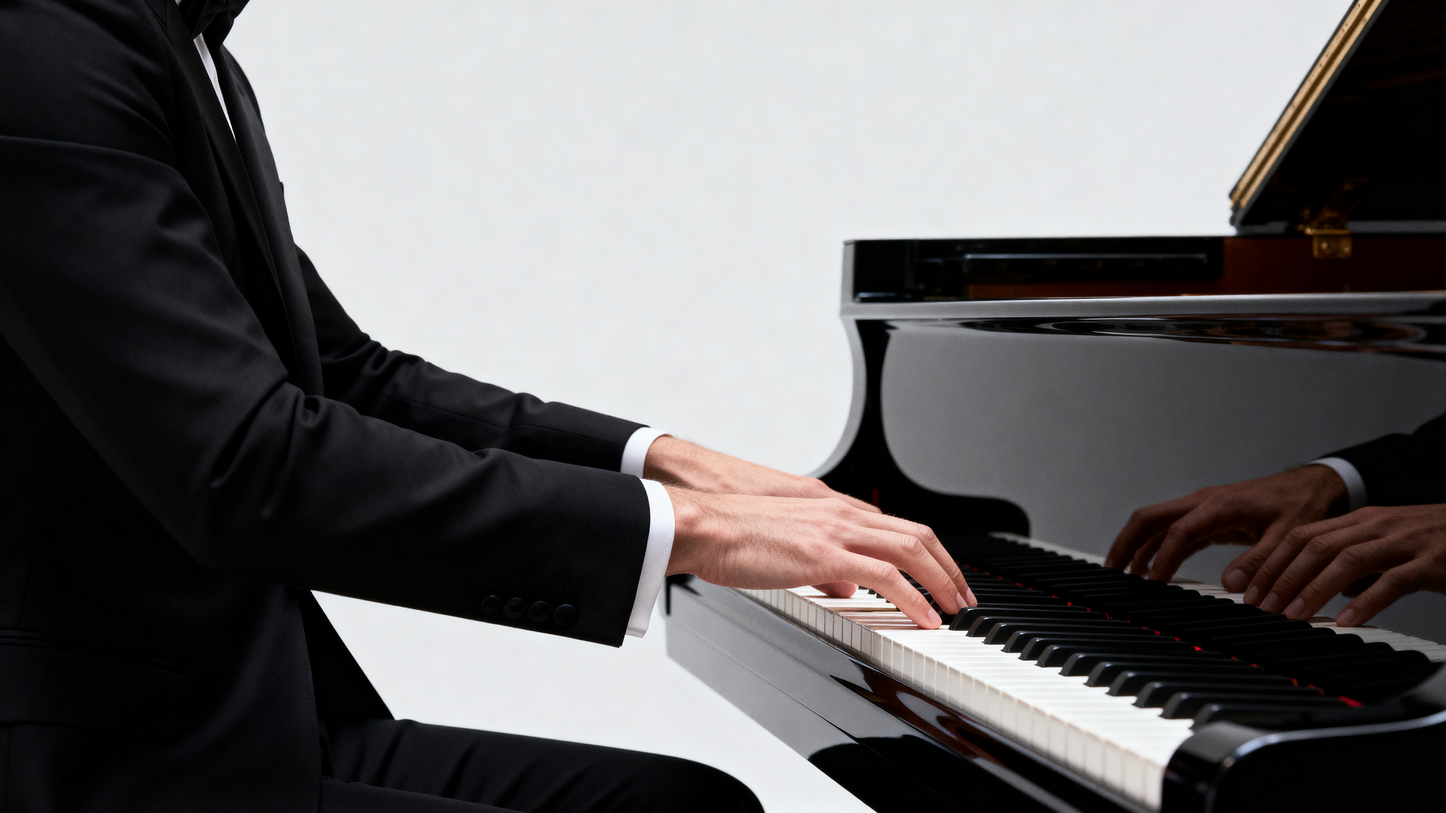
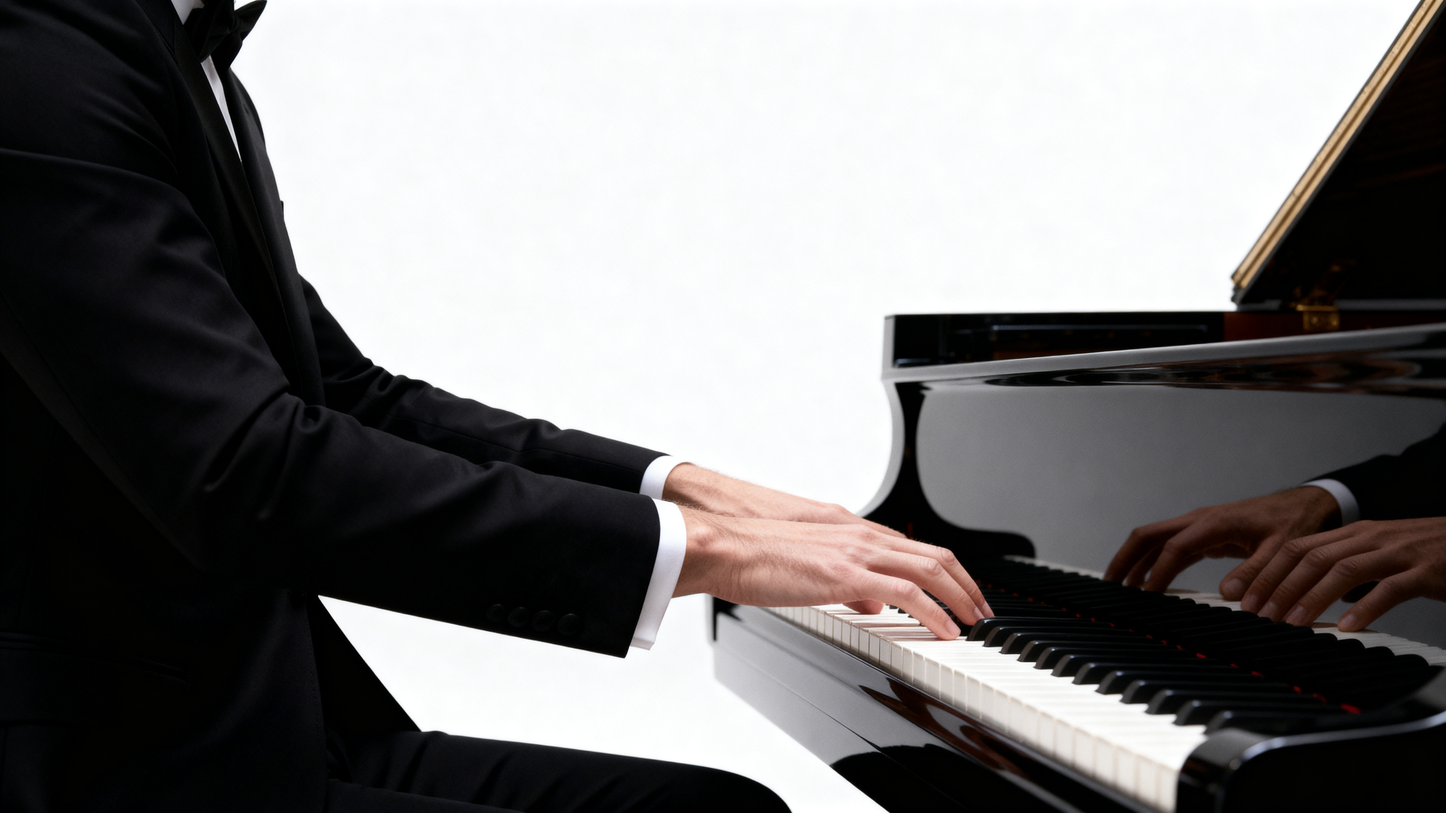
Alt hero: new plate with a genuinely open middle, headline on true centre
Five regenerations off the current scene, measured rather than eyeballed. The
test was the one that matters: how large the headline can be while staying
within 25px of viewport centre, with every line fully on clean ground.

  current   66px      w1 pushed apart    68px
  w2 back   64px      w3 bottom-weighted 56px
  w4 corridor 128px   w5 bottom third   102px

The first three barely moved because the pianist's forearm crosses the middle at
the same height in each, so the clean area closes in the same place. w4 opens the
most room but is unusable: the jacket renders light grey above the forearm
instead of black (torso luminance 197 against 6) and there is a vertical seam in
the backdrop. w5 is clean -- jacket black throughout, backdrop uniform to 1.1
standard deviations against w4's 4.0 -- and still nearly doubles the space.

So the plate is now w5, used as generated, and the headline sits on true
viewport centre for the first time: 96px, centred, against 66px at 35px off.
Title margin raised to 34px because line-height 0.92 leaves the box shorter than
the glyphs, and at this size the descenders of '& Sons' crowded the sub.

Measured with the scrim composited, at 1440x900 and 1920x1080: every hero line
19.5:1 or better, every nav item 15.7:1 or better. The previous plate is one
revert away in this file's history.

diff --git a/hero-alt.html b/hero-alt.html
@@ -173,16 +173,15 @@
     /* The type is the focal point here, so it simply centres in the hero and
        the photography is sized to leave it room, rather than being pinned to
        a feature of a single plate. */
-    /* The clean area is a wedge, widest along the top and closing in as the
-       pianist's arm rises, so the type is anchored high and left of centre
-       rather than sitting in the middle of the viewport. Percentages and vh
-       keep it locked to the photograph as the hero scales. */
+    /* This frame keeps its whole middle clear, so unlike the previous one the
+       type sits on true viewport centre. Percentages and vh keep it locked to
+       the photograph as the hero scales. */
     .hero-inner {
       position: absolute;
       left: 0;
       right: 0;
       bottom: 52.3%;
-      transform: translateX(-3.1vh);
+      transform: none;
       z-index: 1;
       display: flex;
       flex-direction: column;
@@ -206,12 +205,14 @@
     }
 
     .hero-title {
-      font-size: clamp(38px, 7.33vh, 86px);
+      font-size: clamp(52px, 10.67vh, 128px);
       font-weight: 700;
       color: var(--text);
       letter-spacing: -0.03em;
       line-height: 0.92;
-      margin-bottom: 18px;
+      margin-bottom: 34px;   /* line-height 0.92 leaves the box shorter than the
+                                glyphs, so at this size the descenders of
+                                "& Sons" crowd the sub-headline */
     }
 
     .hero-sub {
